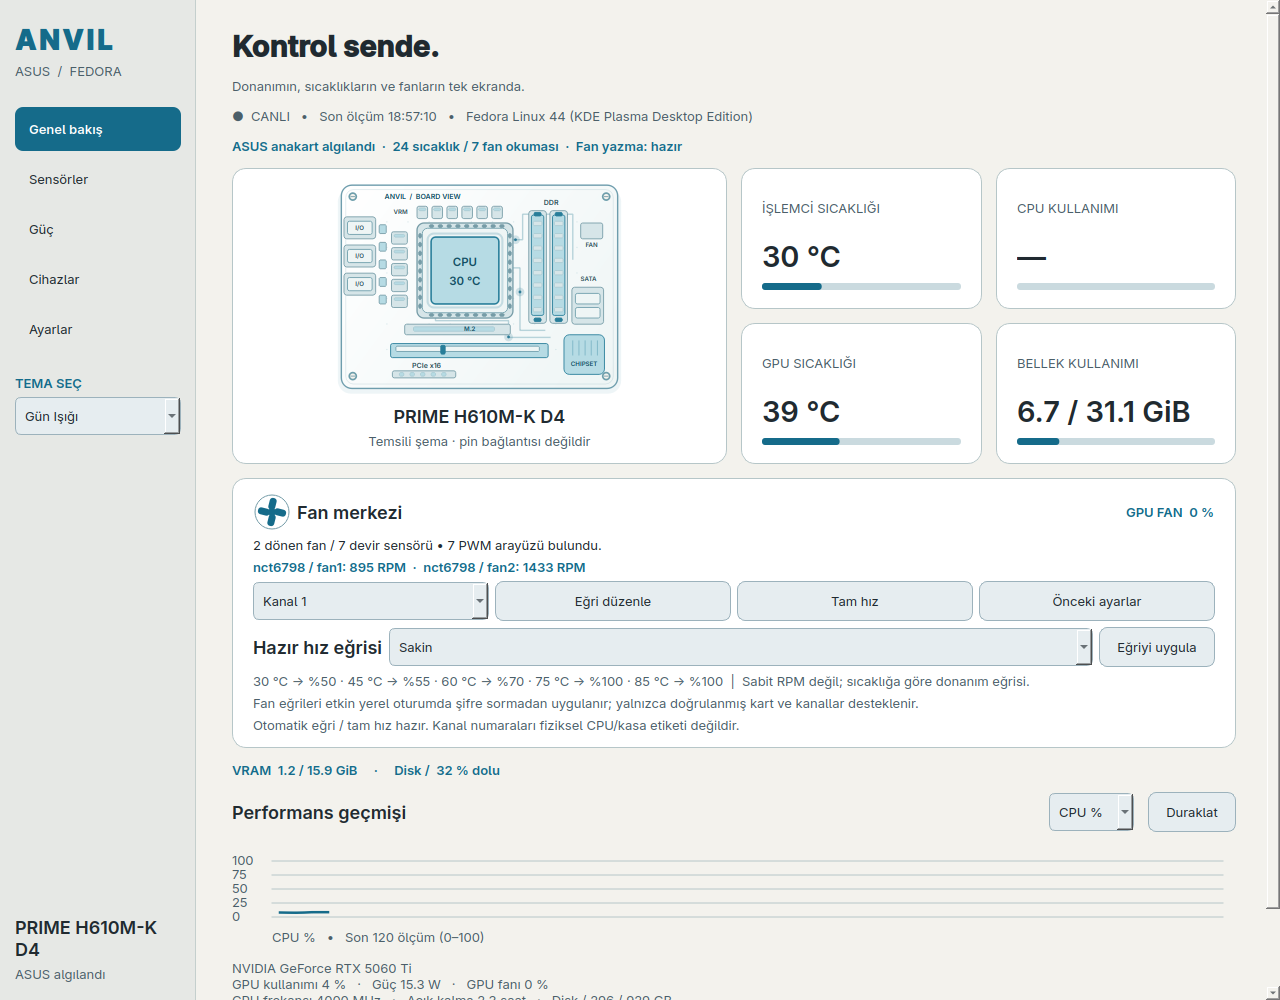
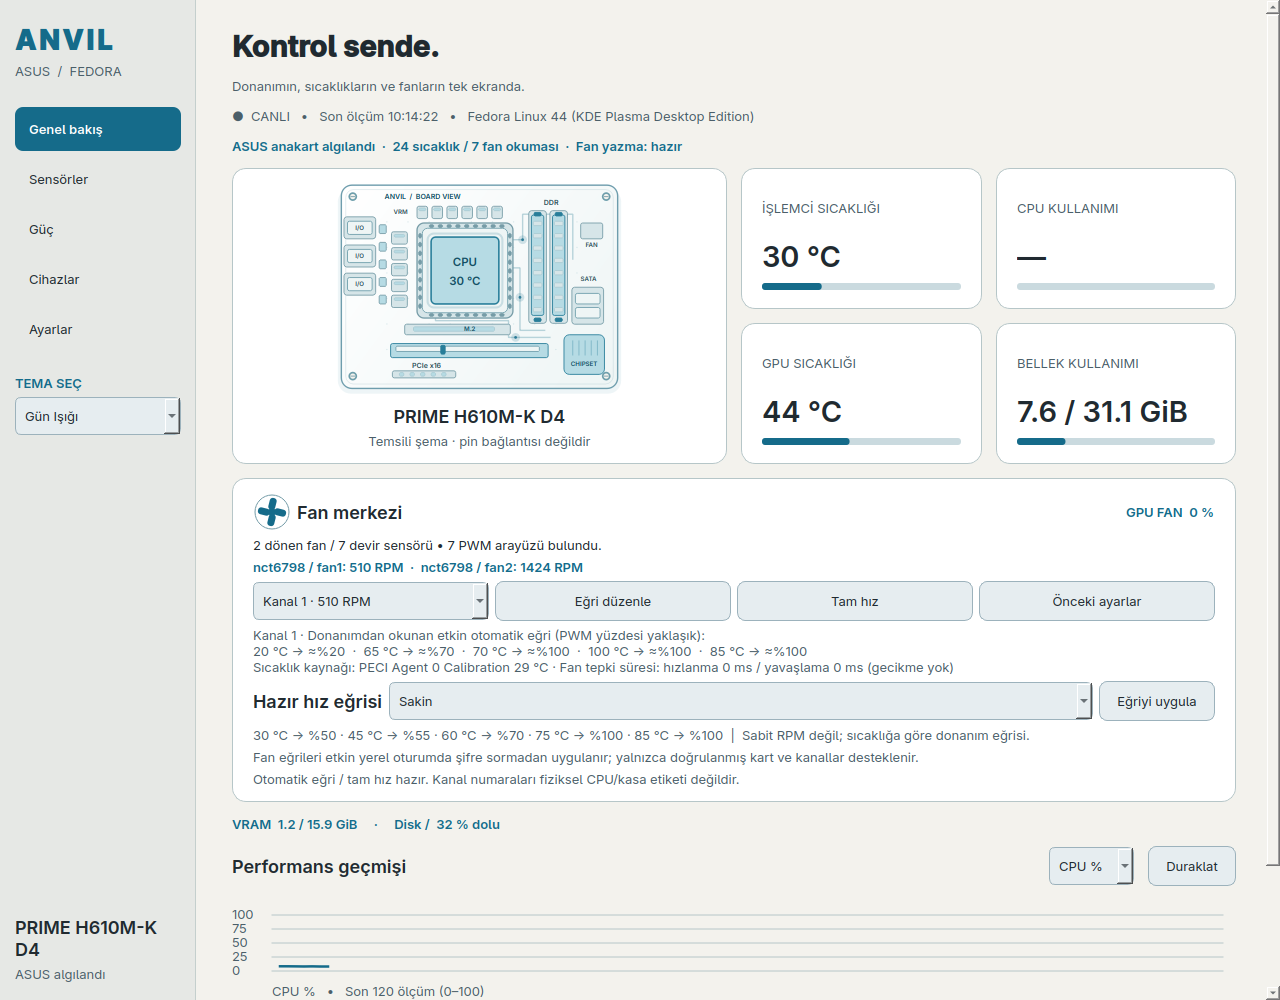
Show live fan channels and hardware curves

diff --git a/anvil/app.py b/anvil/app.py
@@ -418,6 +418,49 @@ def fmt(v, unit='', digits=0):
     return '—' if v is None else f'{v:.{digits}f}{unit}'
 
 
+def fan_channel_label(item):
+    """Use only the controller's channel number, never an unverified socket name."""
+    rpm = item.get('rpm')
+    reading = f'{rpm:.0f} RPM' if isinstance(rpm, (int, float)) and math.isfinite(rpm) and rpm >= 0 else 'RPM okunamadı'
+    return f"Kanal {item['channel']} · {reading}"
+
+
+def preferred_fan_channel(items, selected=None):
+    """Keep a selection; otherwise prefer a fan only when exactly one spins."""
+    if selected in [item['channel'] for item in items]:
+        return selected
+    spinning = [item for item in items if isinstance(item.get('rpm'), (int, float))
+                and math.isfinite(item['rpm']) and item['rpm'] > 0]
+    if len(spinning) == 1:
+        return spinning[0]['channel']
+    return items[0]['channel'] if items else None
+
+
+def hardware_fan_curve_text(item):
+    """Describe read-back PWM points separately from the preset preview."""
+    if item is None:
+        return 'Seçili kanalın donanım eğrisi okunamıyor. Hazır eğriler yalnızca önizlemedir.'
+    prefix = f"Kanal {item['channel']} · Donanımdan okunan "
+    mode = item.get('mode')
+    state = 'etkin otomatik eğri' if mode == '5' else 'kayıtlı eğri (şu an tam hız etkin)' if mode == '0' else 'eğri'
+    details = []
+    source_temp = item.get('source_temp')
+    if isinstance(source_temp, (int, float)) and math.isfinite(source_temp):
+        details.append(f"Sıcaklık kaynağı: {item.get('source_label') or 'PECI'} {source_temp:g} °C")
+    up, down = item.get('step_up_ms'), item.get('step_down_ms')
+    if all(isinstance(value, (int, float)) and math.isfinite(value) and value >= 0 for value in (up, down)):
+        details.append(f'Fan tepki süresi: hızlanma {up:g} ms / yavaşlama {down:g} ms'
+                       + (' (gecikme yok)' if up == down == 0 else ''))
+    points = item.get('points')
+    if (not isinstance(points, (list, tuple)) or len(points) != 5
+            or any(not isinstance(point, (list, tuple)) or len(point) != 2
+                   or any(not isinstance(value, (int, float)) or not math.isfinite(value)
+                          for value in point) for point in points)):
+        return prefix + state + ': beş noktanın tamamı okunamadı.' + ('\n' + ' · '.join(details) if details else '')
+    values = '  ·  '.join(f'{temp:g} °C → ≈%{speed:.0f}' for temp, speed in points)
+    return prefix + state + ' (PWM yüzdesi yaklaşık):\n' + values + ('\n' + ' · '.join(details) if details else '')
+
+
 def percent(part, total):
     return 100 * part / total if part is not None and total and total > 0 else None
 
@@ -708,6 +751,9 @@ class Window(QMainWindow):
         self.fan_channel = QComboBox()
         self.fan_channel.addItem('Kanal aranıyor…', None)
         self.fan_channel.setEnabled(False)
+        self.fan_channel.setToolTip('Kanal numarası fiziksel CPU/kasa etiketi değildir; RPM denetleyici sensöründen okunur.')
+        self.current_fan_channels = []
+        self.fan_channel.currentIndexChanged.connect(self.update_current_fan_curve)
         control_row.addWidget(self.fan_channel)
         self.fan_controls = []
         for title, action in [('Eğri düzenle', self.edit_curve), ('Tam hız', lambda: self.fan_action('full')),
@@ -716,6 +762,9 @@ class Window(QMainWindow):
             control_row.addWidget(b)
             self.fan_controls.append(b)
         fv.addLayout(control_row)
+        self.fan_curve_info = label('Seçili kanalın donanım eğrisi okunuyor…', 'muted')
+        self.fan_curve_info.setAccessibleName('Seçili fan kanalının donanım eğrisi')
+        fv.addWidget(self.fan_curve_info)
         preset_row = QHBoxLayout()
         preset_row.addWidget(label('Hazır hız eğrisi', 'section'))
         self.preset_combo = QComboBox()
@@ -1102,6 +1151,11 @@ class Window(QMainWindow):
             self.preset_info.setText(' · '.join(f'{temp} °C → %{speed}' for temp, speed in points)
                                      + '  |  Sabit RPM değil; sıcaklığa göre donanım eğrisi.')
 
+    def update_current_fan_curve(self, *args):
+        channel = self.fan_channel.currentData()
+        item = next((item for item in self.current_fan_channels if item['channel'] == channel), None)
+        self.fan_curve_info.setText(hardware_fan_curve_text(item))
+
     def apply_fan_preset(self):
         key = self.preset_combo.currentData()
         points = preset_points(key)
@@ -1224,16 +1278,22 @@ class Window(QMainWindow):
         controllable = channels()
         available_channels = [item['channel'] for item in controllable]
         shown_channels = [self.fan_channel.itemData(i) for i in range(self.fan_channel.count())]
+        selected = self.fan_channel.currentData()
+        self.current_fan_channels = controllable
         if available_channels != shown_channels:
-            selected = self.fan_channel.currentData()
-            self.fan_channel.clear()
-            if available_channels:
-                for channel in available_channels:
-                    self.fan_channel.addItem(f'Kanal {channel}', channel)
-                if selected in available_channels:
-                    self.fan_channel.setCurrentIndex(available_channels.index(selected))
-            else:
-                self.fan_channel.addItem('Uygun kanal yok', None)
+            with QSignalBlocker(self.fan_channel):
+                self.fan_channel.clear()
+                if available_channels:
+                    for item in controllable:
+                        self.fan_channel.addItem(fan_channel_label(item), item['channel'])
+                    preferred = preferred_fan_channel(controllable, selected)
+                    self.fan_channel.setCurrentIndex(available_channels.index(preferred))
+                else:
+                    self.fan_channel.addItem('Uygun kanal yok', None)
+        else:
+            for index, item in enumerate(controllable):
+                self.fan_channel.setItemText(index, fan_channel_label(item))
+        self.update_current_fan_curve()
         helper_installed = Path('/usr/libexec/anvil-fan-helper').exists()
         enabled = bool(controllable) and helper_installed and not self.hardware_busy()
         self.fan_channel.setEnabled(enabled)

diff --git a/tests/test_fan_ui.py b/tests/test_fan_ui.py
@@ -1,0 +1,90 @@
+"""Read-only fan display tests; no privileged helper or hardware writes."""
+import os
+import tempfile
+import unittest
+from pathlib import Path
+from unittest.mock import patch
+
+os.environ.setdefault('QT_QPA_PLATFORM', 'offscreen')
+
+from PySide6.QtCore import QSettings
+from PySide6.QtWidgets import QApplication
+
+from anvil.app import (Window, configure_style, fan_channel_label,
+                       hardware_fan_curve_text, preferred_fan_channel)
+
+
+def channel(number, rpm, points=None, mode='5'):
+    return dict(channel=number, rpm=rpm, mode=mode,
+                points=points or [[20, 20], [35, 35], [50, 50], [65, 70], [70, 100]],
+                source_label='PECI Agent 0', source_temp=31,
+                step_up_ms=0, step_down_ms=0)
+
+
+class FanUiTests(unittest.TestCase):
+    @classmethod
+    def setUpClass(cls):
+        cls.app = QApplication.instance() or QApplication([])
+        configure_style(cls.app)
+
+    def test_only_one_spinning_channel_is_preferred_without_socket_guess(self):
+        items = [channel(1, 0), channel(2, 1400)]
+        self.assertEqual(preferred_fan_channel(items), 2)
+        self.assertEqual(preferred_fan_channel(items, 1), 1)
+        self.assertEqual(preferred_fan_channel([channel(1, 500), channel(2, 1400)]), 1)
+        self.assertEqual(preferred_fan_channel([channel(1, 0), channel(2, 0)]), 1)
+        self.assertIsNone(preferred_fan_channel([]))
+        self.assertEqual(fan_channel_label(items[0]), 'Kanal 1 · 0 RPM')
+        self.assertEqual(fan_channel_label(items[1]), 'Kanal 2 · 1400 RPM')
+        self.assertIn('RPM okunamadı', fan_channel_label(channel(2, None)))
+
+    def test_hardware_curve_source_and_inactive_mode_are_explicit(self):
+        current = hardware_fan_curve_text(channel(2, 1400))
+        self.assertIn('Donanımdan okunan etkin otomatik eğri', current)
+        self.assertIn('20 °C → ≈%20', current)
+        self.assertIn('70 °C → ≈%100', current)
+        self.assertIn('PECI Agent 0 31 °C', current)
+        self.assertIn('hızlanma 0 ms / yavaşlama 0 ms', current)
+        self.assertIn('gecikme yok', current)
+        inactive = hardware_fan_curve_text(channel(2, 1400, mode='0'))
+        self.assertIn('şu an tam hız etkin', inactive)
+        self.assertNotIn('etkin otomatik eğri', inactive)
+        broken = channel(2, 1400, points=[[20, None]])
+        self.assertIn('beş noktanın tamamı okunamadı', hardware_fan_curve_text(broken))
+        self.assertIn('yalnızca önizlemedir', hardware_fan_curve_text(None))
+
+    def test_selection_and_live_readback_follow_selected_channel(self):
+        with tempfile.TemporaryDirectory() as directory:
+            settings = QSettings(str(Path(directory) / 'settings.ini'), QSettings.Format.IniFormat)
+            with patch('anvil.app.QSettings', return_value=settings), patch.object(Window, 'refresh'):
+                window = Window()
+            try:
+                sample = dict(time=0, cpu_usage=None, cpu_temp=None, cpu_mhz=None,
+                              memory_used=None, memory_total=None, disk_used=0, disk_total=0,
+                              uptime='', sensors=[], gpu={}, profile=None, profiles=[])
+                items = [channel(1, 0, [[20, 20], [35, 35], [50, 50], [65, 70], [70, 100]]),
+                         channel(2, 1400, [[20, 30], [35, 40], [50, 55], [65, 80], [70, 100]])]
+                with patch('anvil.app.channels', return_value=items):
+                    window.update_data(sample)
+                self.assertEqual(window.fan_channel.currentData(), 2)
+                self.assertEqual(window.fan_channel.itemText(0), 'Kanal 1 · 0 RPM')
+                self.assertEqual(window.fan_channel.itemText(1), 'Kanal 2 · 1400 RPM')
+                self.assertIn('20 °C → ≈%30', window.fan_curve_info.text())
+                window.fan_channel.setCurrentIndex(0)
+                self.assertIn('20 °C → ≈%20', window.fan_curve_info.text())
+                changed = [channel(1, 502), channel(2, 1391)]
+                with patch('anvil.app.channels', return_value=changed):
+                    window.update_data(sample)
+                self.assertEqual(window.fan_channel.currentData(), 1)
+                self.assertEqual(window.fan_channel.itemText(0), 'Kanal 1 · 502 RPM')
+                self.assertEqual(window.fan_channel.itemText(1), 'Kanal 2 · 1391 RPM')
+                with patch('anvil.app.channels', return_value=[]):
+                    window.update_data(sample)
+                self.assertIsNone(window.fan_channel.currentData())
+                self.assertIn('yalnızca önizlemedir', window.fan_curve_info.text())
+            finally:
+                window.quit_app()
+
+
+if __name__ == '__main__':
+    unittest.main()

diff --git a/tests/test_fan_control.py b/tests/test_fan_control.py
@@ -81,6 +81,29 @@ class FanTests(unittest.TestCase):
             (hw/key).write_text(str(value))
         return hw
 
+    def test_channel_reports_source_and_optional_ramp_times(self):
+        with tempfile.TemporaryDirectory() as directory:
+            root = Path(directory)
+            hw = self.fixture(root)
+            (hw/'name').write_text('nct6798')
+            (hw/'fan1_input').write_text('1420')
+            (hw/'pwm1_step_up_time').write_text('500')
+            (hw/'pwm1_step_down_time').write_text('1500')
+
+            item, = channels(root, 'PRIME H610M-K D4', 'ASUS')
+            self.assertEqual(item['channel'], 1)
+            self.assertEqual(item['source_label'], 'PECI Agent 0 Calibration')
+            self.assertEqual(item['source_temp'], 40.0)
+            self.assertEqual(item['step_up_ms'], 500.0)
+            self.assertEqual(item['step_down_ms'], 1500.0)
+
+            (hw/'pwm1_step_up_time').unlink()
+            (hw/'pwm1_step_down_time').unlink()
+            item, = channels(root, 'PRIME H610M-K D4', 'ASUS')
+            self.assertIsNone(item['step_up_ms'])
+            self.assertIsNone(item['step_down_ms'])
+            self.assertEqual(item['source_temp'], 40.0)
+
     def test_curve_full_and_restore(self):
         with tempfile.TemporaryDirectory() as directory:
             root = Path(directory)

diff --git a/anvil/fans.py b/anvil/fans.py
@@ -74,6 +74,10 @@ def channels(root=Path('/sys/class/hwmon'), board=None, vendor=None):
                     and read(hw/f'{stem}_enable') in ('0', '5')):
                 found.append({'channel':n, 'rpm':number(hw/f'fan{n}_input'),
                               'mode':read(hw/f'pwm{n}_enable'), 'duty':number(hw/f'pwm{n}', 2.55),
+                              'source_label':read(hw/f'temp{source}_label'),
+                              'source_temp':number(hw/f'temp{source}_input', 1000),
+                              'step_up_ms':number(hw/f'{stem}_step_up_time'),
+                              'step_down_ms':number(hw/f'{stem}_step_down_time'),
                               'points':[[number(hw/f'pwm{n}_auto_point{i}_temp', 1000),
                                          number(hw/f'pwm{n}_auto_point{i}_pwm', 2.55)] for i in range(1, 6)]})
     return found

diff --git a/anvil/__init__.py b/anvil/__init__.py
@@ -1,1 +1,1 @@
-__version__ = '0.11.0'
+__version__ = '0.12.0'

diff --git a/README.md b/README.md
@@ -33,7 +33,7 @@ Bu nedenle uygulama farklı ASUS sistemlerinde genel izleme için kullanılabili
 [Sürümlerden](https://github.com/Tubix777/anvil-control/releases) RPM’yi indirin:
 
 ```bash
-sudo dnf install ./anvil-control-0.11.0-1.fc44.noarch.rpm
+sudo dnf install ./anvil-control-0.12.0-1.fc44.noarch.rpm
 anvil-control
 ```
 
@@ -50,6 +50,8 @@ Beş bölüm: **Genel bakış**, **Sensörler**, **Güç**, **Cihazlar** (RGB, e
 Ana sayfadaki anakartın katmanlı üstten görünüşü CPU, RAM, PCIe, M.2 ve diğer başlıca bileşenleri temsili olarak gösterir; gerçek pin/bağlantı şeması değildir. Anakart izlerindeki ışık, CPU vurgusu ve grafikteki yeni ölçüm halkası dekoratif animasyonlardır. **Ayarlar → Arayüz animasyonları** seçeneği bunları ve diğer hareketleri kapatır; gizli sayfalarda anakart animasyonu çalışmaz.
 
 Ana sayfadaki fan merkezinde **Sakin**, **Dengeli** ve **Yüksek soğutma** hazır sıcaklık eğrileri seçilebilir; **Eğriyi uygula** seçili, doğrulanmış anakart kanalına yazar. Bunlar sabit RPM hedefleri değildir. 75 ve 85 °C noktalarında tüm hazır eğriler %100 PWM uygular. **Önceki ayarlar** bu açılıştaki ilk değişiklik öncesine döner. GPU fanı için yazma denetimi sunulmaz.
+
+Doğrulanmış fan kanallarının seçiminde anlık RPM gösterilir. Yalnız bir kanal dönüyorsa başlangıçta o öne alınır; elle seçtiğiniz kanal korunur. Seçili kanalın donanımdan okunan **mevcut eğrisi** ve varsa PECI kaynak sıcaklığı ile fan tepki süreleri hazır eğri önizlemesinden ayrı görünür. Bu değerler ani fan hızlanmasını incelemeye yardımcı olur; fan tepki süresini bu sürümde değiştirmez.
 
 Fan değişiklikleri için yalnızca `/usr/libexec/anvil-fan-helper` polkit eylemi, **etkin yerel oturumda** şifresiz izinlidir; etkin olmayan ve uzaktan oturumlara izin verilmez. Bu, yalnızca uygulamanın düğmelerini değil, aynı oturumdaki başka programların aynı yardımcıyı çağırmasını da kapsar. Yardımcı yalnızca doğrulanmış kart/kanal ve güvenli eğrileri kabul eder; bu izin genel root erişimi vermez. Ortak kullanılan bilgisayarlarda bu yetki modelini göz önünde bulundurun.
 
@@ -68,7 +70,7 @@ python3 -m unittest discover -s tests -v
 QT_QPA_PLATFORM=offscreen PYTHONPATH=. python3 tests/smoke_ui.py
 ```
 
-33 birim testi ve gerçek sensör telemetrisiyle beş bölümlü arayüz testi. Smoke testi yalnızca mevcut sistemde çalışır. Bu bağımsız alpha proje ASUS/Fedora tarafından onaylanmamıştır. Anakart çizimi temsili şemadır, pin bağlantısı değildir. AMD GPU desteği sysfs fikstürleriyle sınandı; gerçek AMD donanımında henüz doğrulanmadı. JSON tanılama raporunu paylaşmadan önce içeriğini inceleyin; raporda kart/BIOS, PCI ve sensör bilgileri bulunur.
+37 birim testi ve gerçek sensör telemetrisiyle beş bölümlü arayüz testi. Smoke testi yalnızca mevcut sistemde çalışır. Bu bağımsız alpha proje ASUS/Fedora tarafından onaylanmamıştır. Anakart çizimi temsili şemadır, pin bağlantısı değildir. AMD GPU desteği sysfs fikstürleriyle sınandı; gerçek AMD donanımında henüz doğrulanmadı. JSON tanılama raporunu paylaşmadan önce içeriğini inceleyin; raporda kart/BIOS, PCI ve sensör bilgileri bulunur.
 
 ## English
 

diff --git a/CHANGELOG.md b/CHANGELOG.md
@@ -1,5 +1,11 @@
 # Değişiklikler
 
+## 0.12.0 — 2026-09-24
+
+- Doğrulanmış fan kanalları anlık RPM ile etiketleniyor; yalnızca bir fan dönüyorsa ilk seçim ona yöneliyor, kullanıcının kanal seçimi korunuyor. Kanal numarası fiziksel CPU/kasa bağlantısını kanıtlamaz.
+- Seçili kanalın donanımdan geri okunan etkin beş noktalı eğrisi, PECI sıcaklık kaynağı ve sürücü sunuyorsa hızlanma/yavaşlama süreleri hazır eğri önizlemesinden ayrı gösteriliyor. Tam hız modunda kayıtlı eğri etkinmiş gibi sunulmuyor.
+- Fan yazma davranışı, güç profili ve sistem fan ayarları değiştirilmedi; ani devir artışının nedenini incelemek için salt okunur bilgiler ve regresyon testleri eklendi.
+
 ## 0.11.0 — 2026-09-23
 
 - Anakartın temsili çizimi; CPU soketi, VRM, çift RAM yuvası, M.2, PCIe, SATA, yonga seti ve bağlantı ayrıntılarıyla yeniden tasarlandı. Yedi temanın renklerine uyarlanır; gerçek pin/bağlantı planı değildir.
